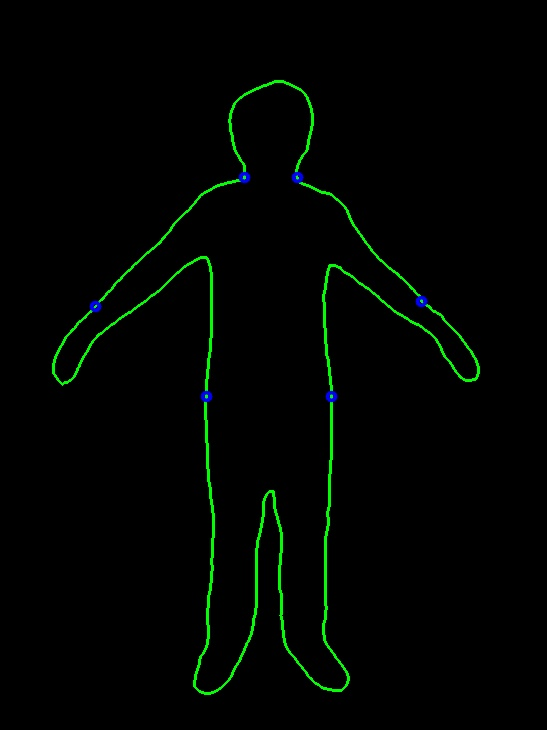
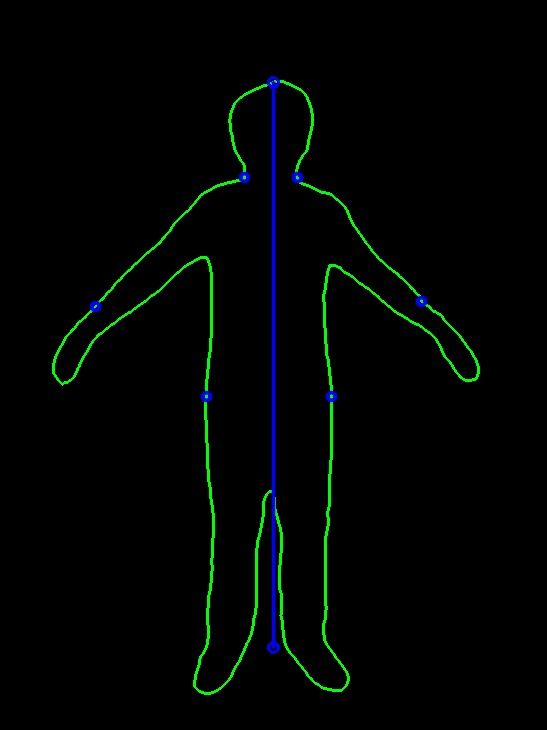
height calc

Changed region(s): [[0.4662, 0.0904, 0.5283, 0.9041]]

diff --git a/findPositionsFront.py b/findPositionsFront.py
@@ -38,6 +38,15 @@ def image_resize(image, width = None, height = None, inter = cv2.INTER_AREA):
     return resized
 
 
+def find_FootY(la, w, h, img):
+    a = np.array(la) # l heel
+    lh = np.multiply(a, [w, h]).astype(int)
+
+    # cv2.circle(img, (w//2, lh[1]), 5, BLACK, 2)
+
+    return lh[1]
+
+
 def find_NeckY(a, b, w, h, img):
     a = np.array(a) # nose
     b = np.array(b) # should
@@ -50,7 +59,7 @@ def find_NeckY(a, b, w, h, img):
     y2 = (ydiff)/2
     p[1] = b2[1] - y2
 
-    # cv2.circle(img, (230, p[1]), 5, BLACK, 2)
+    # cv2.circle(img, (w//2, p[1]), 5, BLACK, 2)
 
     return p[1]
 
@@ -67,7 +76,7 @@ def find_ChestY(a, b, w, h, img):
     y2 = (ydiff)/2
     p[1] = b2[1] + y2
 
-    # cv2.circle(img, (230, p[1]), 5, BLACK, 2)
+    # cv2.circle(img, (w//2, p[1]), 5, BLACK, 2)
 
     return p[1]
 
@@ -114,12 +123,12 @@ def calculate_Waist(la, ra, lb, rb,  w, h, img):
     rw[0] = (abs(rh[0] - rs[0])) /2 + rs[0]
     rw[1] = (abs(rh[1] - rs[1])) /2 + rs[1]
 
-    cv2.circle(img, lw, 5, BLACK, 2)
-    cv2.circle(img, rw, 5, BLACK, 2)
+    # cv2.circle(img, lw, 5, BLACK, 2)
+    # cv2.circle(img, rw, 5, BLACK, 2)
 
     dist = np.linalg.norm(lw - rw)
 
-    cv2.line(img, rw, lw, BLACK, 2, cv2.LINE_AA)
+    # cv2.line(img, rw, lw, BLACK, 2, cv2.LINE_AA)
 
     return dist
 
@@ -156,7 +165,7 @@ def find_HipY(a, w, h, img):
     ar = np.array(a) # First
     a2 = np.multiply(ar, [w, h]).astype(int)
 
-    # cv2.circle(img, (230, a2[1]), 5, BLACK, 2)
+    # cv2.circle(img, (w//2, a2[1]), 5, BLACK, 2)
 
     return a2[1]
 
@@ -201,11 +210,12 @@ with mp_pose.Pose(static_image_mode=True, min_detection_confidence=0.5, min_trac
     nose = [landmarks[mp_pose.PoseLandmark.NOSE.value].x,landmarks[mp_pose.PoseLandmark.NOSE.value].y]
 
     # Find positions
-    topL1, topL2, topL3, topL4 = (0,15), (0,30), (0,45), (0,60)
+    topL1, topL2, topL3, topL4, topL5 = (0,15), (0,30), (0,45), (0,60), (0,75)
     neckY = find_NeckY(nose, l_shoulder, w, h, annotated_front)
     chest_dist_front = calculate_Chest(l_elbow, l_shoulder, r_elbow, r_shoulder, w, h, annotated_front)
     LwaistY, RwaistY = find_WaistY(l_shoulder, r_shoulder, l_hip, r_hip,  w, h, annotated_front)
     hipY = find_HipY(l_hip, w, h, annotated_front)
+    footY = find_FootY(l_heel, w, h, annotated_front)
 
     # Visualize y_positions, additional points
     cv2.putText(annotated_front, "neck(_,y): {:.3f}".format(neckY), topL1, 
@@ -218,6 +228,9 @@ with mp_pose.Pose(static_image_mode=True, min_detection_confidence=0.5, min_trac
                     cv2.FONT_HERSHEY_SIMPLEX, 0.5, BLACK, 1, cv2.LINE_AA)
 
     cv2.putText(annotated_front, "hip(_,y): {:.3f}".format(hipY), topL4, 
+                    cv2.FONT_HERSHEY_SIMPLEX, 0.5, BLACK, 1, cv2.LINE_AA)
+
+    cv2.putText(annotated_front, "foot(_,y): {:.3f}".format(footY), topL5, 
                     cv2.FONT_HERSHEY_SIMPLEX, 0.5, BLACK, 1, cv2.LINE_AA)
  
     

diff --git a/findContoursFront.py b/findContoursFront.py
@@ -94,10 +94,11 @@ cv2.drawContours(canvas, cnt, -1, (0, 255, 0), 2)
 # cv2.drawContours(canvas, [hull], -1, (0, 0, 255), 3) # simple hull
 
 
-# MEASUREMENTS AFTER CONTOURS ### NECK, WAIST, HIP
+# MEASUREMENTS AFTER CONTOURS ### NECK, WAIST, HIP and HEIGHT
 neckY = 177
 LwaistY, RwaistY = 306, 301
 hipY = 396
+footY = 647
 
 def get_Xpts(contour, Ypoint):
     xs = []
@@ -125,14 +126,54 @@ def showWaistpoints(LwaistPts, RwaistPts):
     cv2.circle(canvas, (l1[0], l1[1]), 4, (255,0,0), 2, cv2.LINE_AA)
     cv2.circle(canvas, (r2[0], r2[1]), 4, (255,0,0), 2, cv2.LINE_AA)
 
+
+# Height calc
+def get_TopY(contour, Xpoint):
+    ys = []
+    for point in contour:
+        x, y = point[0][:]
+        if x == Xpoint:
+            ys.append( (x, y) )
+
+    lst = list(set(ys))
+    lst.sort()
+    y = lst[0][1]
+
+    return [Xpoint, y]
+
+
+def calculate_Height(contour):
+    midX = w//2
+    bottomPoint = [midX, footY]
+    topPoint = get_TopY(contour, midX)
+
+    a = np.array(bottomPoint) # p1
+    b = np.array(topPoint) # p2
+
+    cv2.circle(canvas, a, 5, (255,0,0), 2)
+    cv2.circle(canvas, b, 5, (255,0,0), 2)
+
+    dist = np.linalg.norm(a - b)
+
+    cv2.line(canvas, a, b, (255,0,0), 2, cv2.LINE_AA)
+
+    return dist
+
+
+person_height = int(calculate_Height(cnt))
+print(person_height)
+
+
 neckPts = get_Xpts(cnt, neckY)
 LwaistPts = get_Xpts(cnt, LwaistY)
 RwaistPts = get_Xpts(cnt, RwaistY)
 hipPts = get_Xpts(cnt, hipY)
 
+
 print(LwaistPts)
 print(RwaistPts)
 
+# DRAW POINTS
 show2points(neckPts)
 showWaistpoints(LwaistPts, RwaistPts)
 show2points(hipPts)
